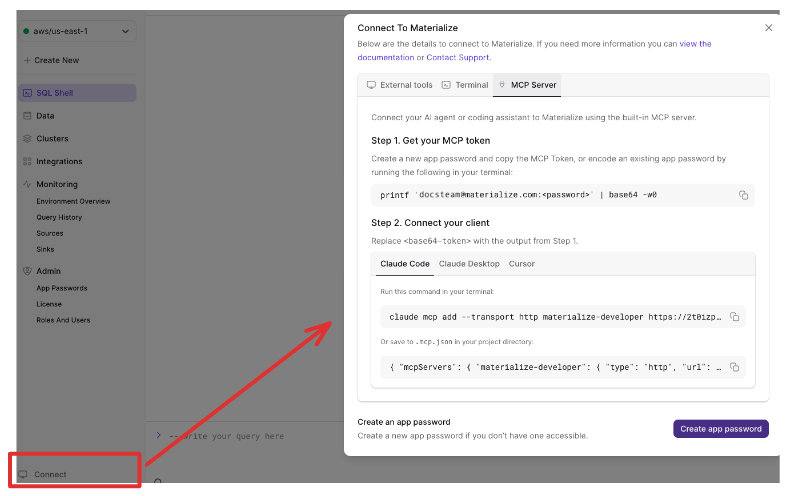
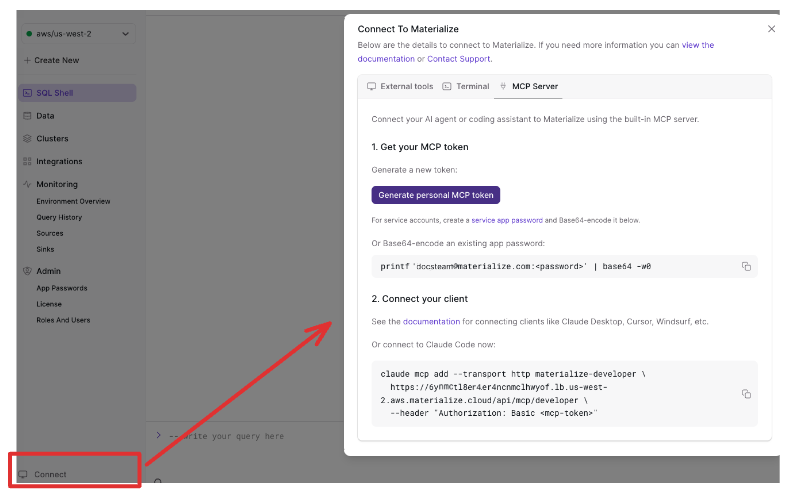
docs: update mcp dev server for console updates and local config inst… (#36518)
…ead of project config

Pull request: docs: update mcp dev server for console updates and local config inst…
…ead of project config

diff --git a/doc/user/content/integrations/mcp-server/mcp-developer.md b/doc/user/content/integrations/mcp-server/mcp-developer.md
@@ -43,16 +43,16 @@ modal](/images/console/console-connect-mcp.png "Materialize Connect modal, MCP
 tab")
 
 1. To get your base64-encoded token:
-   - To use an existing app password, generate a base64-encoded token. MCP
-   clients send credentials as a Base64-encoded `user:password` string.
+   - To use an existing personal app password, generate a base64-encoded token.
+   MCP clients send credentials as a Base64-encoded `user:password` string.
 
      ```bash
      printf '<user>:<app_password>' | base64 -w0
      ```
 
-   - To create a new app password to use, click on the **Create app password**
-     to generate a new app password and token for MCP Server. **Copy the app
-     password and token**.
+   - To create a new personal app password to use, click on the **Generate
+     personal MCP token** to generate a new token for MCP Server. **Copy the
+     token**.
 
 {{< /tab >}}
 {{< tab "Self-Managed" >}}
@@ -136,23 +136,16 @@ When saving your credentials or other sensitive information in a config file, do
 {{< /warning >}}
 
 {{< tabs >}}
-
 {{< tab "Claude Code" >}}
 
-1. Create a `.mcp.json` file with the following content:
+1. Add the `materialize-developer` MCP server as [local-scoped
+   server](https://code.claude.com/docs/en/mcp#local-scope) (i.e., the
+   configurations are stored in `~/.claude.json`):
 
-   ```json
-   {
-     "mcpServers": {
-       "materialize-developer": {
-         "type": "http",
-         "url": "<baseURL>/api/mcp/developer",
-         "headers": {
-           "Authorization": "Basic <base64-token>"
-         }
-       }
-     }
-   }
+   ```sh
+   claude mcp add --transport http materialize-developer \
+     <baseURL>/api/mcp/developer \
+     --header "Authorization: Basic <mcp-token>"
    ```
 
    {{% include-headless "/headless/mcp-dev-endpoint-config-replacements" %}}
@@ -163,15 +156,21 @@ When saving your credentials or other sensitive information in a config file, do
 
 {{< tab "Claude Desktop" >}}
 
-1. Add to your Claude Desktop MCP configuration (`claude_desktop_config.json`):
+1. Add the `materialize-developer` MCP server entry to your Claude Desktop
+   configuration (`claude_desktop_config.json`).
+   - When merging into an existing `mcpServers` object, remember to add commas
+     between entries.
+   - If the `mcpServers` field does not already exist, add it as well.
+   - For older Claude Desktop versions, you may need to include the transport
+     `"type": "http",` as well as part of the `materialize-developer` entry.
 
-   ```json
+   ```json {hl_lines="3-8"}
    {
      "mcpServers": {
        "materialize-developer": {
          "url": "<baseURL>/api/mcp/developer",
          "headers": {
-           "Authorization": "Basic <base64-token>"
+           "Authorization": "Basic <mcp-token>"
          }
        }
      }
@@ -186,18 +185,23 @@ When saving your credentials or other sensitive information in a config file, do
 
 {{< tab "Cursor" >}}
 
-1. In Cursor's MCP settings (`.cursor/mcp.json`):
+1. Add the `materialize-developer` MCP server entry to your local MCP settings
+   file (`~/.cursor/mcp.json`).
+   - When merging into an existing `mcpServers` object, remember to add commas
+     between entries.
+   - If the `mcpServers` field does not already exist, add it as well.
 
-   ```json
-
-    "mcpServers": {
-      "materialize-developer": {
-        "url": "<baseURL>/api/mcp/developer",
-        "headers": {
-          "Authorization": "Basic <base64-token>"
-        }
-      }
-    }
+   ```json {hl_lines="3-8"}
+   {
+     "mcpServers": {
+       "materialize-developer": {
+         "url": "<baseURL>/api/mcp/developer",
+         "headers": {
+           "Authorization": "Basic <mcp-token>"
+         }
+       }
+     }
+   }
    ```
 
    {{% include-headless "/headless/mcp-dev-endpoint-config-replacements" %}}
@@ -208,12 +212,12 @@ When saving your credentials or other sensitive information in a config file, do
 
 {{< tab "Generic HTTP" >}}
 
-Any MCP-compatible client can connect by sending JSON-RPC 2.0 requests; update the `<baseURL>` and `<base64-token>` placeholders with your values:
+Any MCP-compatible client can connect by sending JSON-RPC 2.0 requests; update the `<baseURL>` and `<mcp-token>` placeholders with your values:
 
 ```bash
 curl -X POST <baseURL>/api/mcp/developer \
   -H "Content-Type: application/json" \
-  -H "Authorization: Basic <base64-token>" \
+  -H "Authorization: Basic <mcp-token>" \
   -d '{
     "jsonrpc": "2.0",
     "id": 1,

diff --git a/doc/user/content/headless/mcp-dev-endpoint-config-replacements.md b/doc/user/content/headless/mcp-dev-endpoint-config-replacements.md
@@ -2,9 +2,9 @@
 headless: true
 ---
 
-Update the `<baseURL>` and `<base64-token>` placeholders with your values:
+Update the `<baseURL>` and `<mcp-token>` placeholders with your values:
 
-| Deployment   |  `<baseURL>`                                                     |  `<base64-token>`              |
+| Deployment   |  `<baseURL>`                                                     |  `<mcp-token>`              |
 |--------------| ------------------------------------------------------------------| -------------------------------|
 | **Cloud**        | Replace with your value (format: `https://<region-id>.materialize.cloud`)  | Replace with your value       |
 | **Self-Managed** | Replace with your value (format: `http://<host>:6876`) | Replace with your value       |
@@ -12,8 +12,7 @@ Update the `<baseURL>` and `<base64-token>` placeholders with your values:
 
 {{< tip >}}
 
-For **Cloud**, you can copy the `.json` content from the **MCP Server** tab in
-the Console's **Connect** modal. The `.json` copied from the Console already
-includes the correct `<baseURL>`.
+For **Cloud**, you can get the MCP URL directly from the Console's **Connect**
+modal. The modal displays the correct `<baseURL>`.
 
 {{< /tip >}}